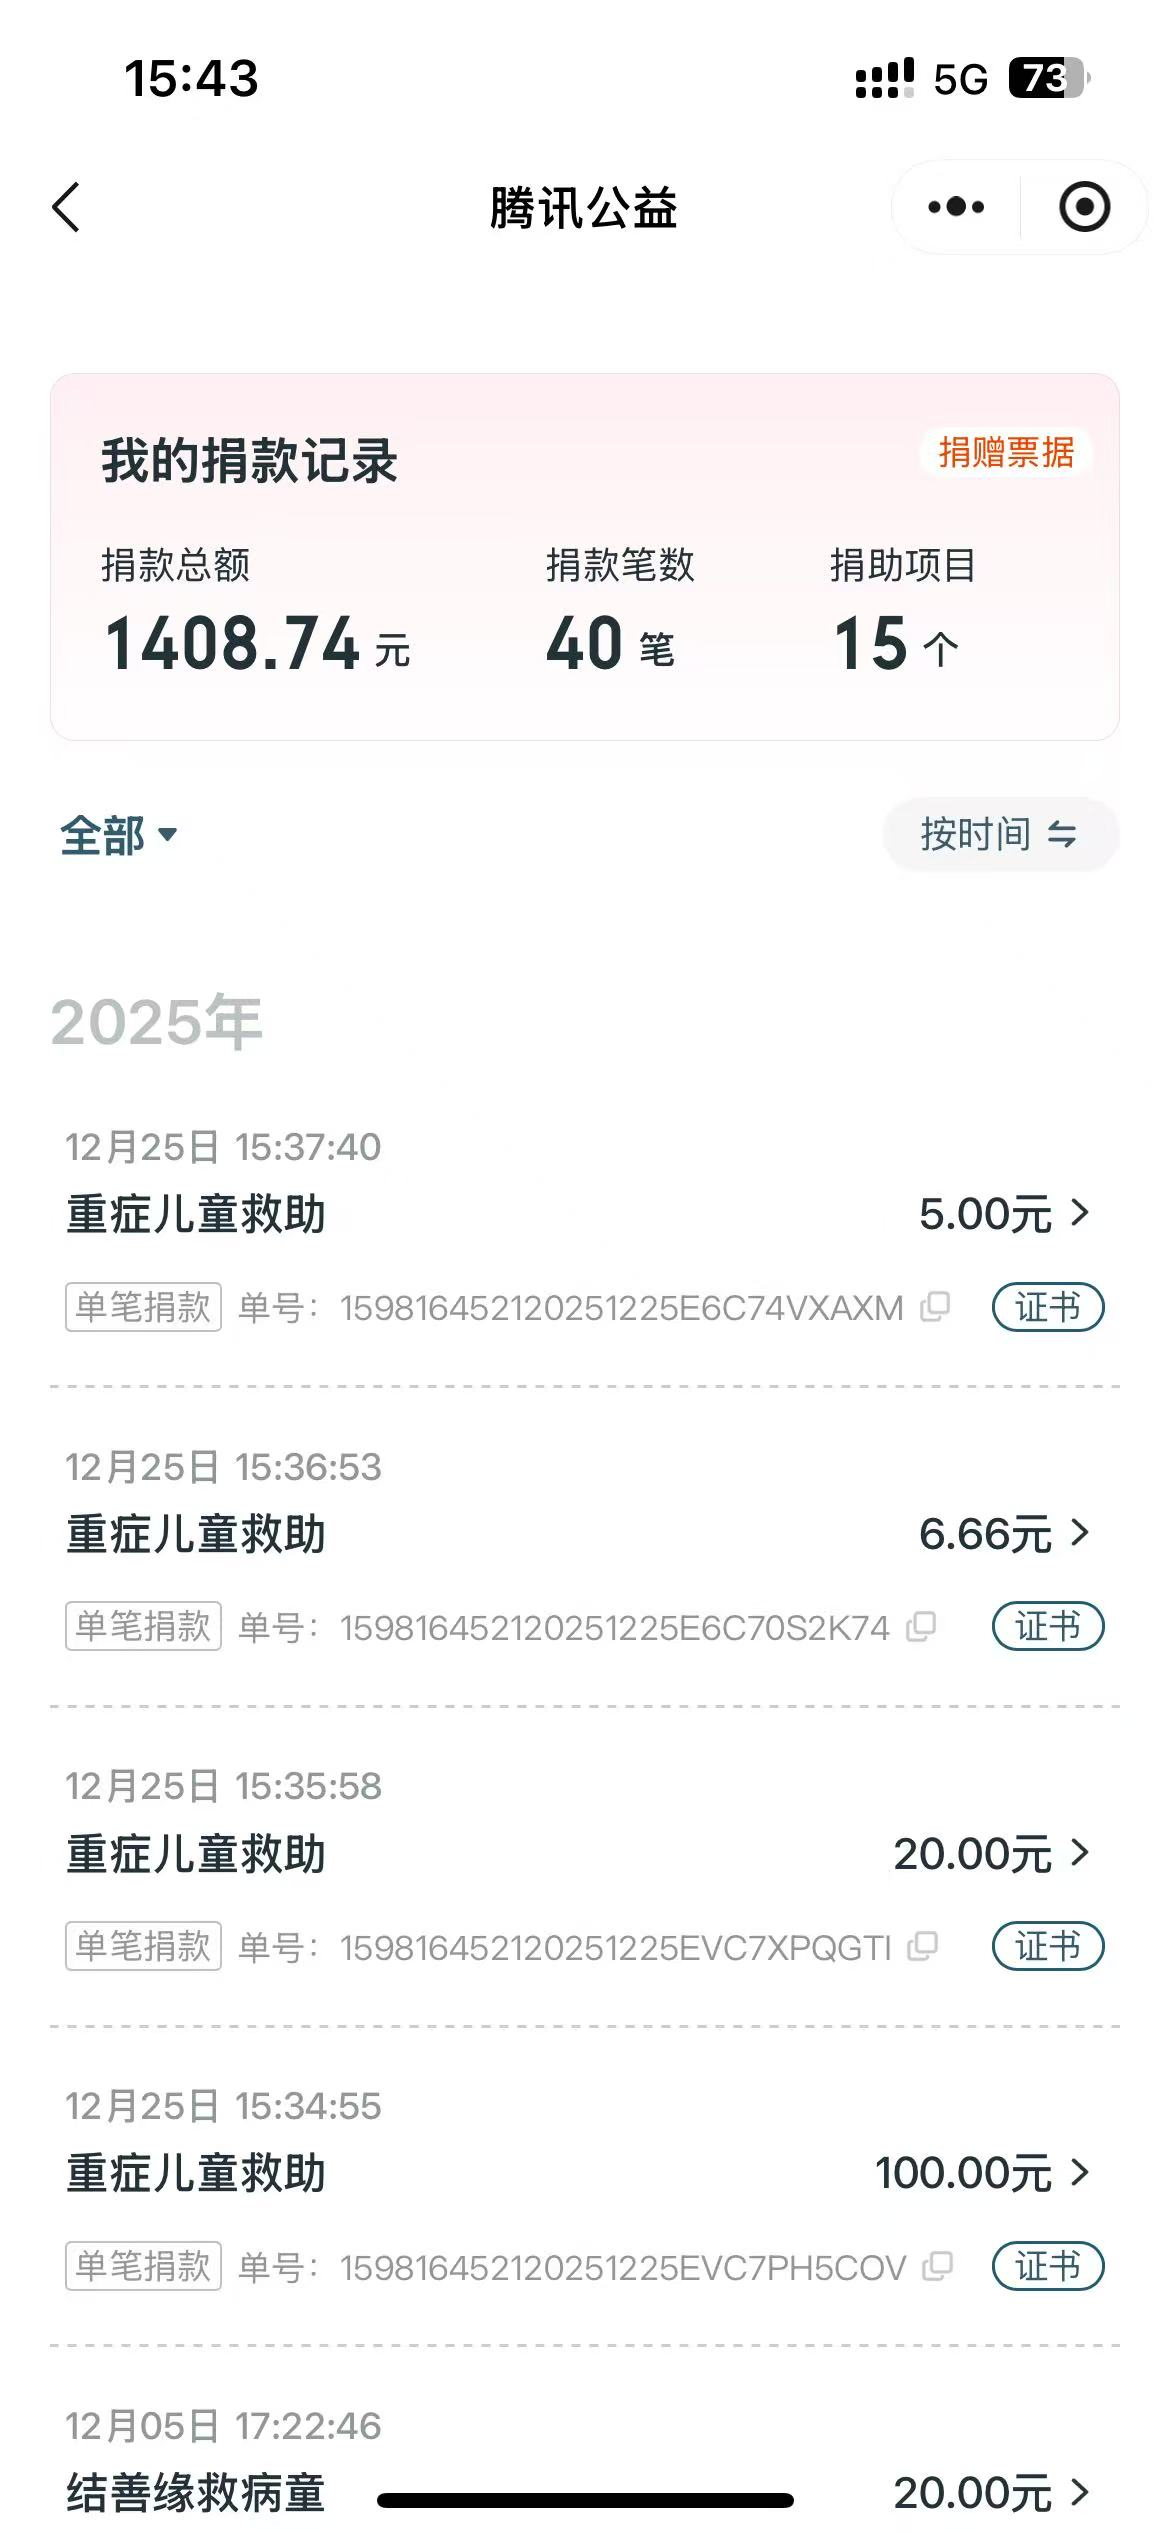
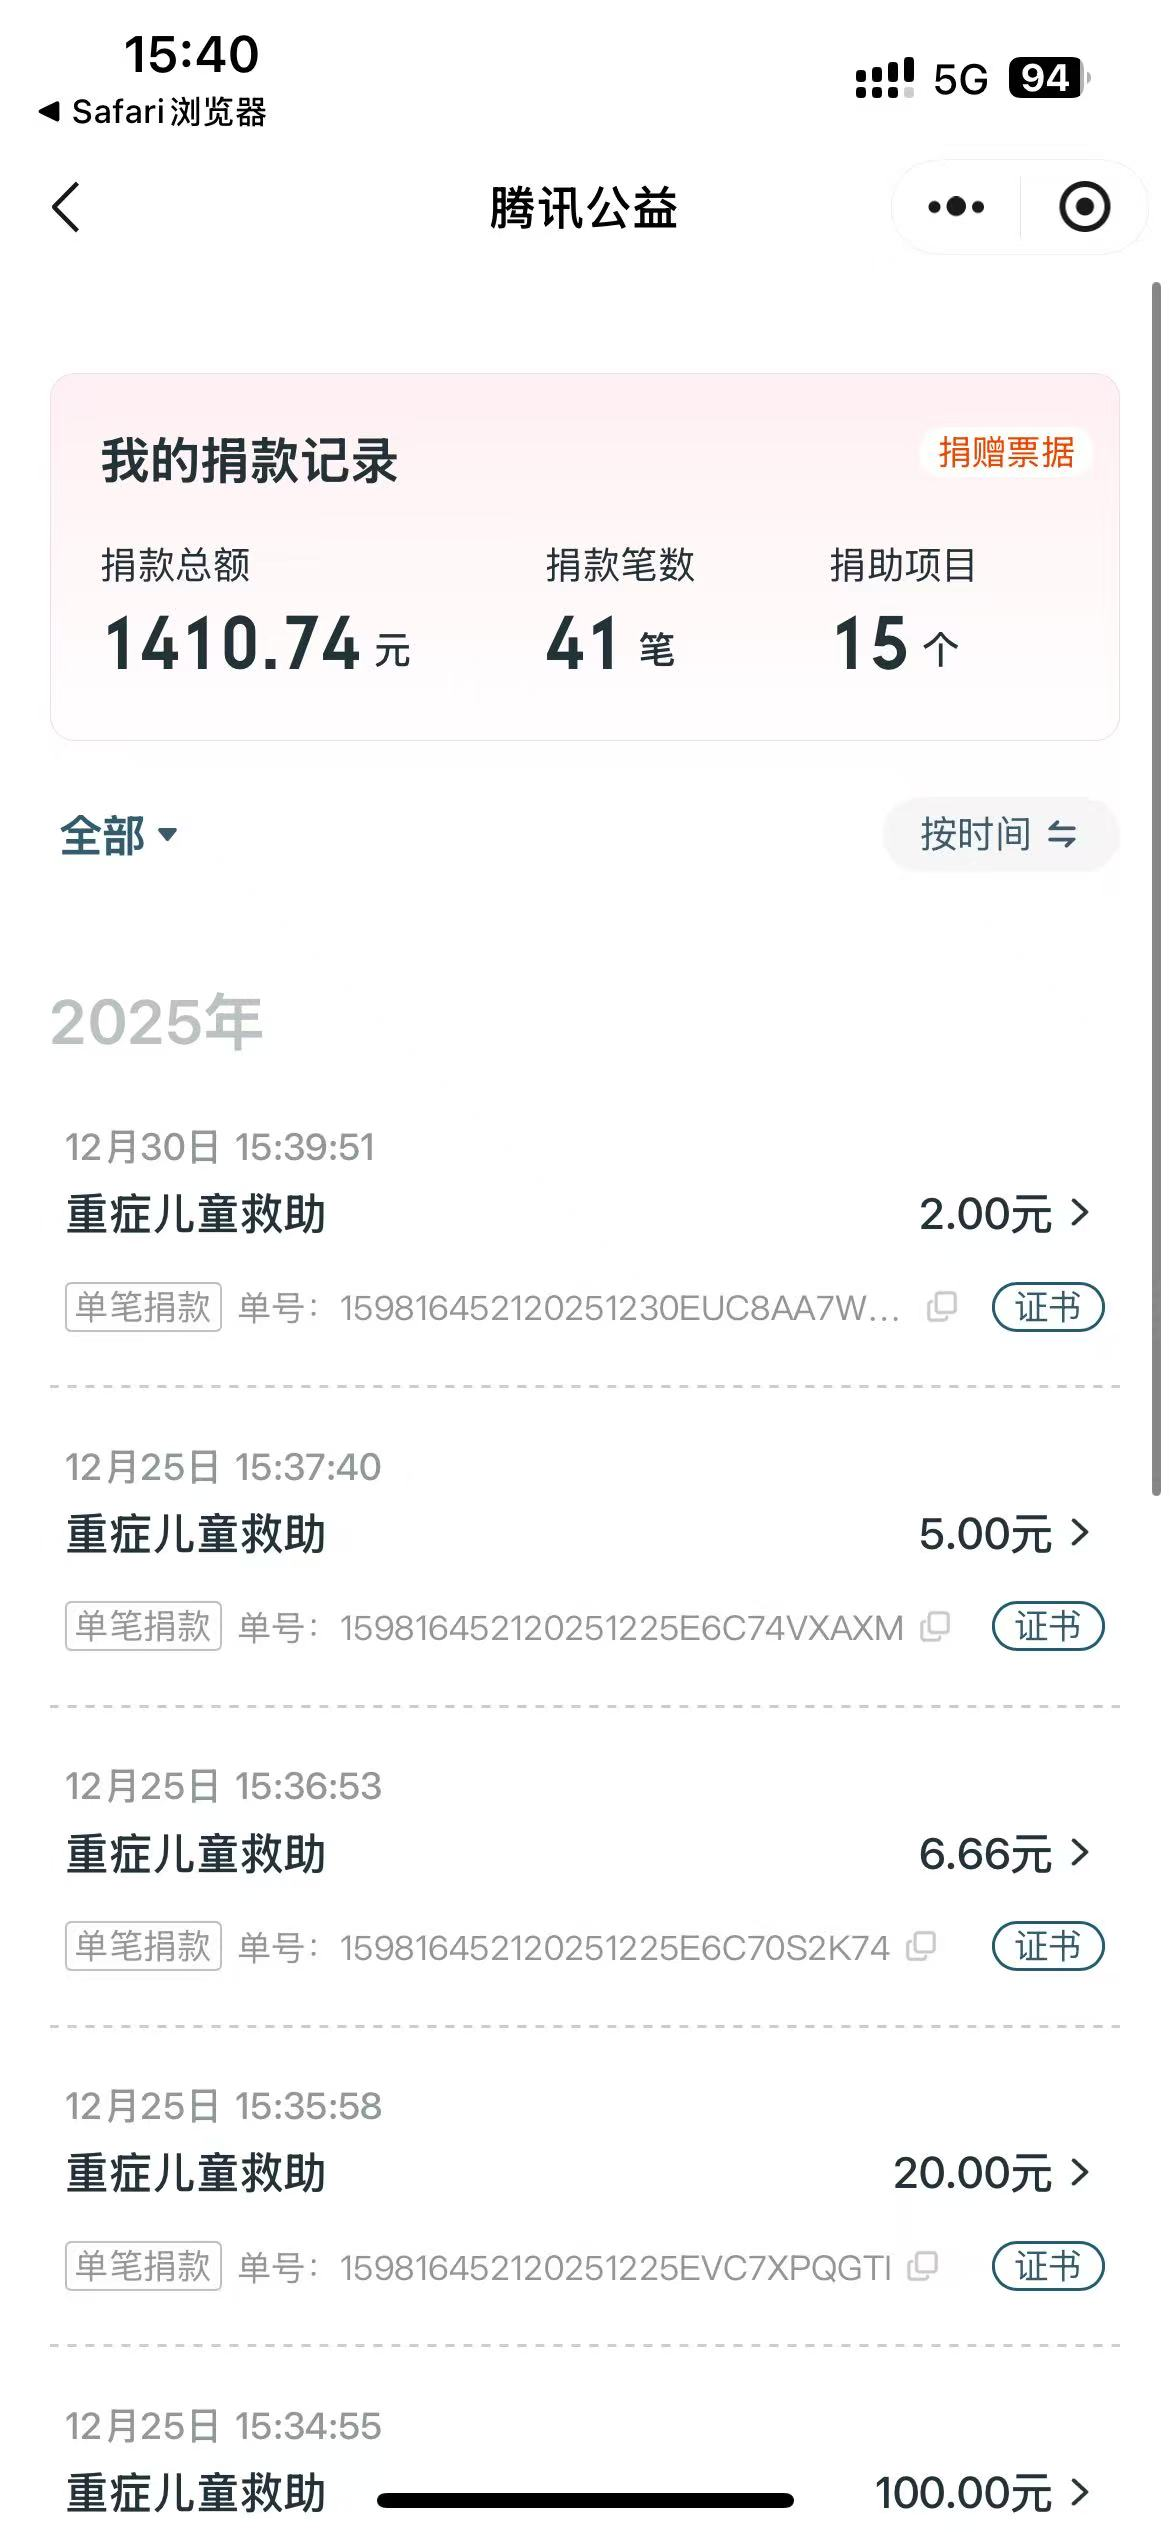
更新打赏

diff --git a/donate/index.html b/donate/index.html
@@ -55,7 +55,7 @@
     <img src="./159816452120251225EVC7XPQGTI.jpg">
     <img src="./159816452120251225E6C70S2K74.jpg">
     <img src="./159816452120251225E6C74VXAXM.jpg">
-
+    <img src="./159816452120251230EUC8AA7WZU.jpg">
 </body>
 
 </html>

diff --git a/README.md b/README.md
@@ -102,6 +102,7 @@
 | bluespace            | 20   | 2025.12.23 | 
 | 今天你踢球了吗            | 6.66   | 2025.12.23 | 
 | 扫地僧            | 5   | 2025.12.24 | 
+| 辣椒酱jj            | 2   | 2025.12.29 | 
 
 ### 关于打赏
 - 您的每一笔打赏，我都会原封不动以**您的名义**捐赠到腾讯公益。
